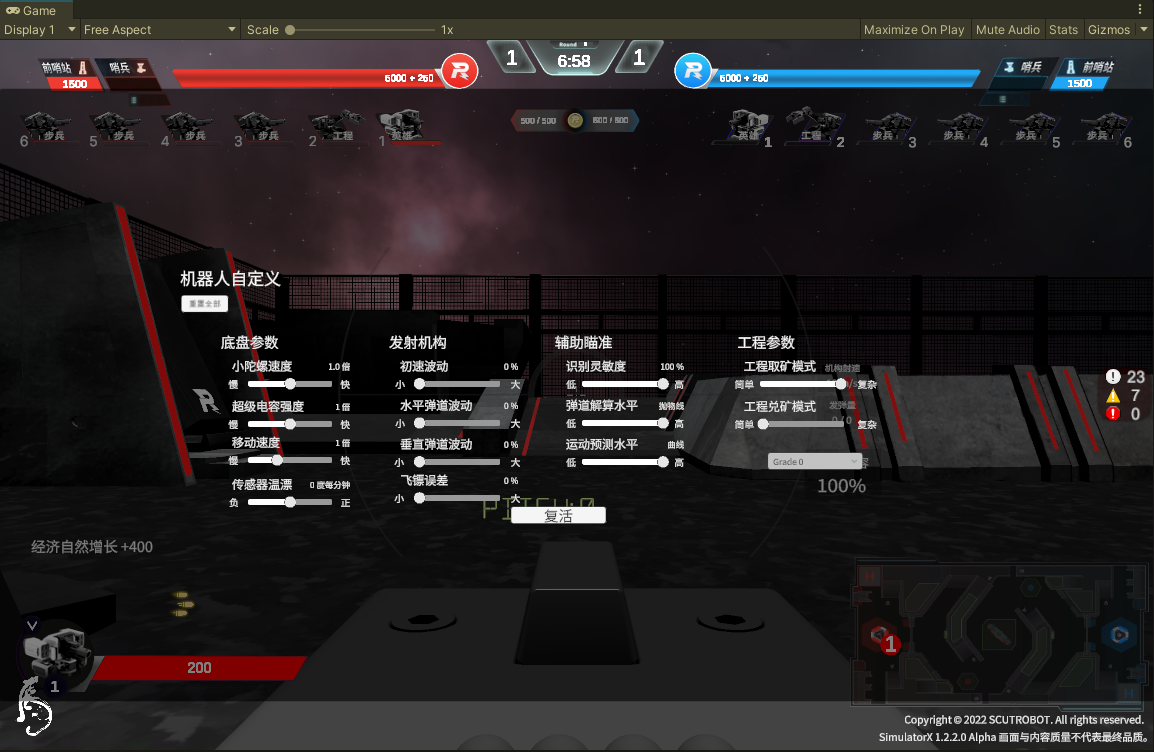
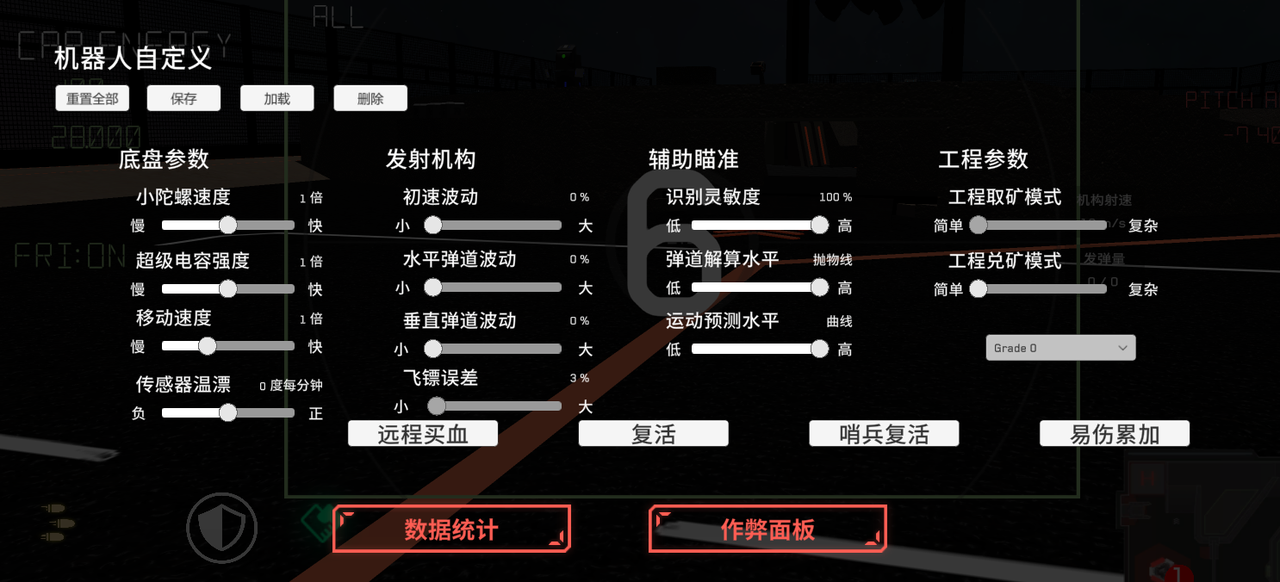
fix/update-ui-guide
将官服版下载方式放到开源版前边；更新了ui说明

---------

diff --git a/docs/guide/install.md b/docs/guide/install.md
@@ -6,11 +6,54 @@ description: 如何安装SimulatorX开源版或社区版
 
 :::info
 
-开源版目前为2023赛季的规则实现，如果要体验最新功能请[安装SimulatorX 官服版](#安装SimulatorX官服版)
+开源版目前为2023赛季的规则实现，如果非必要，我们更推荐您按照下面的教程安装`SimulatorX官服版`。  
+安装`SimulatorX开源版`请参考[SimulatoX开源版](#安装开源版)
 
 :::
 
-## 客户端软件
+## 安装SimulatorX官服版
+
+1. 访问[官方下载站](#https://dl.sim.scutbot.cn/)
+
+2. 选择你需要的版本
+
+3. 下载SimualtorX压缩包（即普通客户端），解压后运行`SimulatorX.exe`
+
+:::info
+
+带有`LinuxServer`字样的版本为服务器版，可以用于搭建[**私有服务器**](#搭建私有服务器)
+
+:::
+
+## 官服版如何联机
+
+:::info
+
+客户端与服务器：想要进行对战，我们电脑上下载和使用的是客户端，客户端需要连接上**服务器端**才能创建房间、加入房间，服务器端需要**部署在机器上**才能被客户端连接。
+
+软件开发组提供了**公开的服务器，供所有用户联机**
+
+:::
+
+### (最简便的方式) 使用华南虎官方服务器
+
+- 下载SimulatorX，解压后运行`SimulatorX.exe`
+- 在【创建房间】页面或者【主页面】中填写用户名，直接点击【创建房间】即可创建房间并成为房主，无需填写服务器地址与密码
+- 从房间左上角可以复制口令并分享给其他用户，其他用户在【加入已有房间】页面或者【主页面】中填写用户名和房主的口令即可点击【加入房间】按钮
+
+恭喜，至此即可愉快地进行联机游戏。
+
+### 搭建私有服务器
+
+若认为软件开发组提供的服务器联机特别卡顿，可以选择**自己部署服务器用于联机：**
+
+1. 首先仍然是下载上文中[官方下载站](#https://dl.sim.scutbot.cn/)中的SimualtorX压缩包（即普通客户端）以及LinuxServer（Linux服务器端）
+2. 然后需要部署Linux私有服务器，详细的私有服务器申请与部署流程参见[私有服务器](https://scutrobotlab.feishu.cn/wiki/wikcnAK9qq0uYZyLWi8xnJi6Q6b?from=from_copylink)文档,申请后可以获取密钥
+3. 对于客户端，在【创建房间】页面或者【主页面】中填写用户名和在【服务器密码】一栏填写申请的密钥，点击【创建房间】即可创建房间并成为房主
+4. 从房间左上角可以复制口令并分享给其他用户，其他用户填写用户名和口令连接（同方法1）
+
+## 安装开源版
+### 客户端软件
 
 - 首先下载客户端软件 [SimulatorX Windows Client](https://github.com/scutrobotlab/SimulatorX/releases/download/1.2.3.1-release/SimulatorX-Windows-Client-1.2.3.1-Release.zip)
 - 解压安装
@@ -18,7 +61,7 @@ description: 如何安装SimulatorX开源版或社区版
 
 > 或许你还想看：[如何多人联机](game.md#联机方式)
 
-## 服务端软件
+### 服务端软件
 - 下载服务端软件:
 - linux: [simulatorx-linux-server.tar.gz](https://github.com/scutrobotlab/SimulatorX/releases/download/1.2.3.1-release/simulatorx-linux-server-1.2.3.1-release.tar.gz)
 - Windows: [SimulatorX Windows Server](https://github.com/scutrobotlab/SimulatorX/releases/download/1.2.3.1-release/SimulatorX-Windows-Server-1.2.3.1-Release.zip)
@@ -64,44 +107,4 @@ Known Issues:
 - 可尝试使用持久化技术运行服务端
 - 可尝试内网穿透技术对特定网络环境暴露服务端。但注意，此操作造成的后果由操作者自行承担。
 
-## 安装SimulatorX官服版
-
-1. 访问[官方下载站](#https://dl.sim.scutbot.cn/)
-
-2. 选择你需要的版本
-
-3. 下载SimualtorX压缩包（即普通客户端），解压后运行`SimulatorX.exe`
-
-:::info
-
-带有`LinuxServer`字样的版本为服务器版，可以用于搭建[**私有服务器**](#搭建私有服务器)
-
-:::
-
-## 官服版如何联机
-
-:::info
-
-客户端与服务器：想要进行对战，我们电脑上下载和使用的是客户端，客户端需要连接上**服务器端**才能创建房间、加入房间，服务器端需要**部署在机器上**才能被客户端连接。
-
-软件开发组提供了**公开的服务器，供所有用户联机**
-
-:::
-
-### (最简便的方式) 使用华南虎官方服务器
-
-- 下载SimulatorX，解压后运行`SimulatorX.exe`
-- 在【创建房间】页面或者【主页面】中填写用户名，直接点击【创建房间】即可创建房间并成为房主，无需填写服务器地址与密码
-- 从房间左上角可以复制口令并分享给其他用户，其他用户在【加入已有房间】页面或者【主页面】中填写用户名和房主的口令即可点击【加入房间】按钮
-
-恭喜，至此即可愉快地进行联机游戏。
-
-### 搭建私有服务器
-
-若认为软件开发组提供的服务器联机特别卡顿，可以选择**自己部署服务器用于联机：**
-
-1. 首先仍然是下载上文中[官方下载站](#https://dl.sim.scutbot.cn/)中的SimualtorX压缩包（即普通客户端）以及LinuxServer（Linux服务器端）
-2. 然后需要部署Linux私有服务器，详细的私有服务器申请与部署流程参见[私有服务器](https://scutrobotlab.feishu.cn/wiki/wikcnAK9qq0uYZyLWi8xnJi6Q6b?from=from_copylink)文档,申请后可以获取密钥
-3. 对于客户端，在【创建房间】页面或者【主页面】中填写用户名和在【服务器密码】一栏填写申请的密钥，点击【创建房间】即可创建房间并成为房主
-4. 从房间左上角可以复制口令并分享给其他用户，其他用户填写用户名和口令连接（同方法1）
 

diff --git a/docs/guide/ui.md b/docs/guide/ui.md
@@ -14,19 +14,36 @@
 - 选择某一弹丸数量，会弹出确认窗口。
 - 点击确认按钮兑换弹丸，点击取消按钮返回。
 ## 机构选择界面
-启动结构选择界面后：
+按下`P`键，启动结构选择界面后：  
+![guide-ui-customize-02.png](/static/images/guide-ui-customize-02.png)
 - 左侧 登出 按钮用于退出比赛。
 - 中间的下拉菜单用于选择发射机构和底盘类型，选择后不可变更。
 - 右侧灵敏度滑条用于调节鼠标操作灵敏度。
-## 机器人自定义
-按下 Q 键开启或关闭，可以调整
-- 底盘参数
-- 发射机构参数
-- 辅助瞄准
-- 工程参数
 ### Q面板 - 属性自定义面板
-控制底盘参数，弹道散布参数，自瞄参数，工程参数
-![guide-ui-customize-01.png](/static/images/guide-ui-customize-01.png)
-### P面板 - 设置面板
-如图
-![guide-ui-customize-02.png](/static/images/guide-ui-customize-02.png)
+控制底盘参数，弹道散布参数，自瞄参数，工程参数  
+![guide-ui-customize-01.png](/static/images/guide-ui-customize-01.png)  
+按下 Q 键开启或关闭，可以调整  
+  - 底盘参数
+  - 发射机构参数
+  - 辅助瞄准
+  - 工程参数（暂固定为简单取矿，无法修改）
+在此面板中，有较多新加入的功能，我们一一介绍：
+**配置保存、加载按钮**  
+  1. 在“机器人自定义”下面有保存，加载和删除按钮  
+  2. 可以先按自己的偏好调整参数，然后调好后按保存按钮，每个兵种独立存储参数。（也就是英雄、步兵、云台手等的自定义参数相互独立）  
+  3. 如果不满意目前偏好设置，可以直接按“删除”按钮删掉本地配置文件，也可以调整后按下“保存“按钮直接覆盖
+
+**作弊面板**  
+目前提供修改双方基地、前哨血量、修改游戏时间等功能。  
+![guide-ui-customize-cheat.png](/static/images/guide-ui-customize-cheat.png)  
+  - 修改双方金币：允许增减。  
+  - 修改比赛时间：只允许往比赛结束的方向推进。重要时间点写在面板右侧  
+  - 修改双方前哨站、基地血量：允许增减血量，但不能将已被摧毁的前哨复活。  
+
+将比赛剩余时间改为0、将某一方基地血量改为0，都会触发游戏直接结束。    
+**数据统计面板**  
+目前提供死亡热点统计、关键事件（打符、击杀等）发生时间统计、每个机器人造成伤害及其子弹命中率的统计  
+**易伤累加、远程买血、复活、哨兵复活**  
+参考规则手册，分别可以实现雷达的易伤效果、用金币远程兑换血量的效果。  
+另外，由于复活功能现已改为选择性复活面板，此处复活按钮无意义，建议不要使用  
+哨兵复活仅云台手可对自动生成哨兵进行复活操作  
